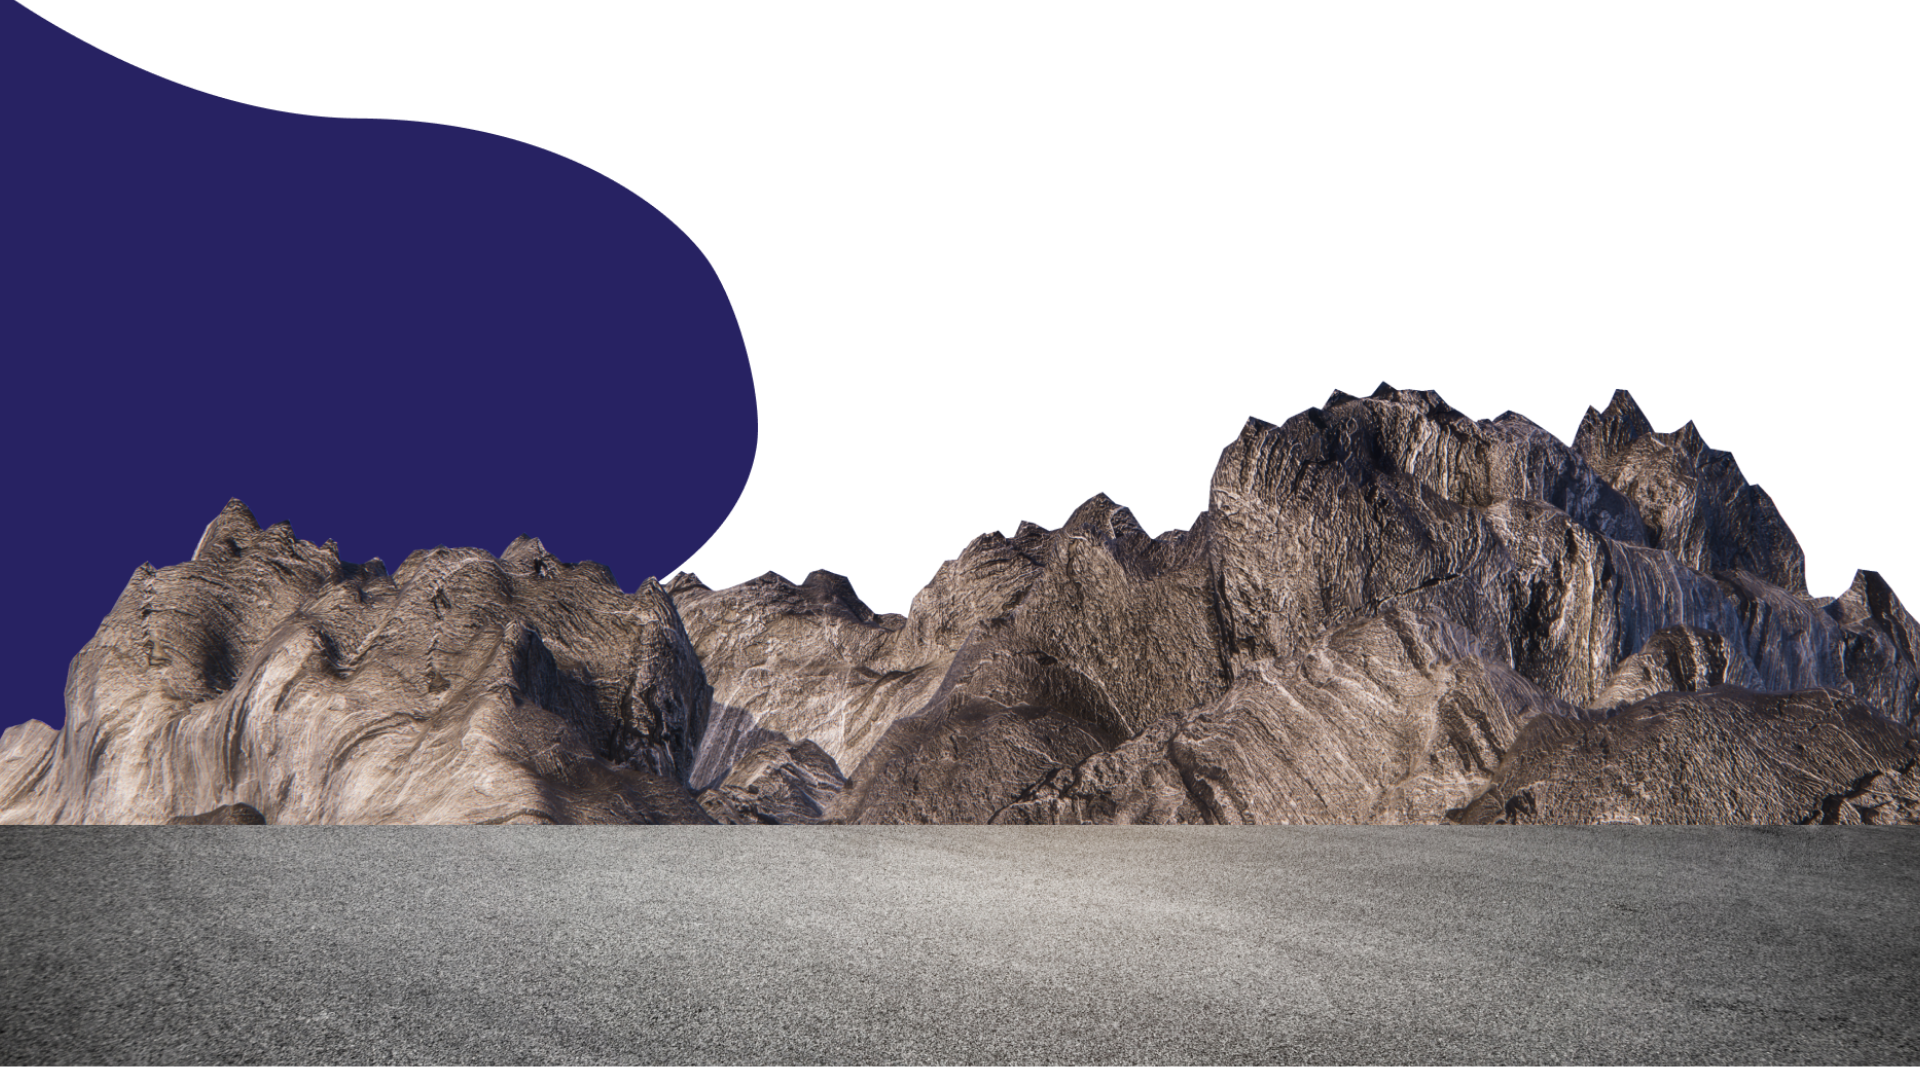
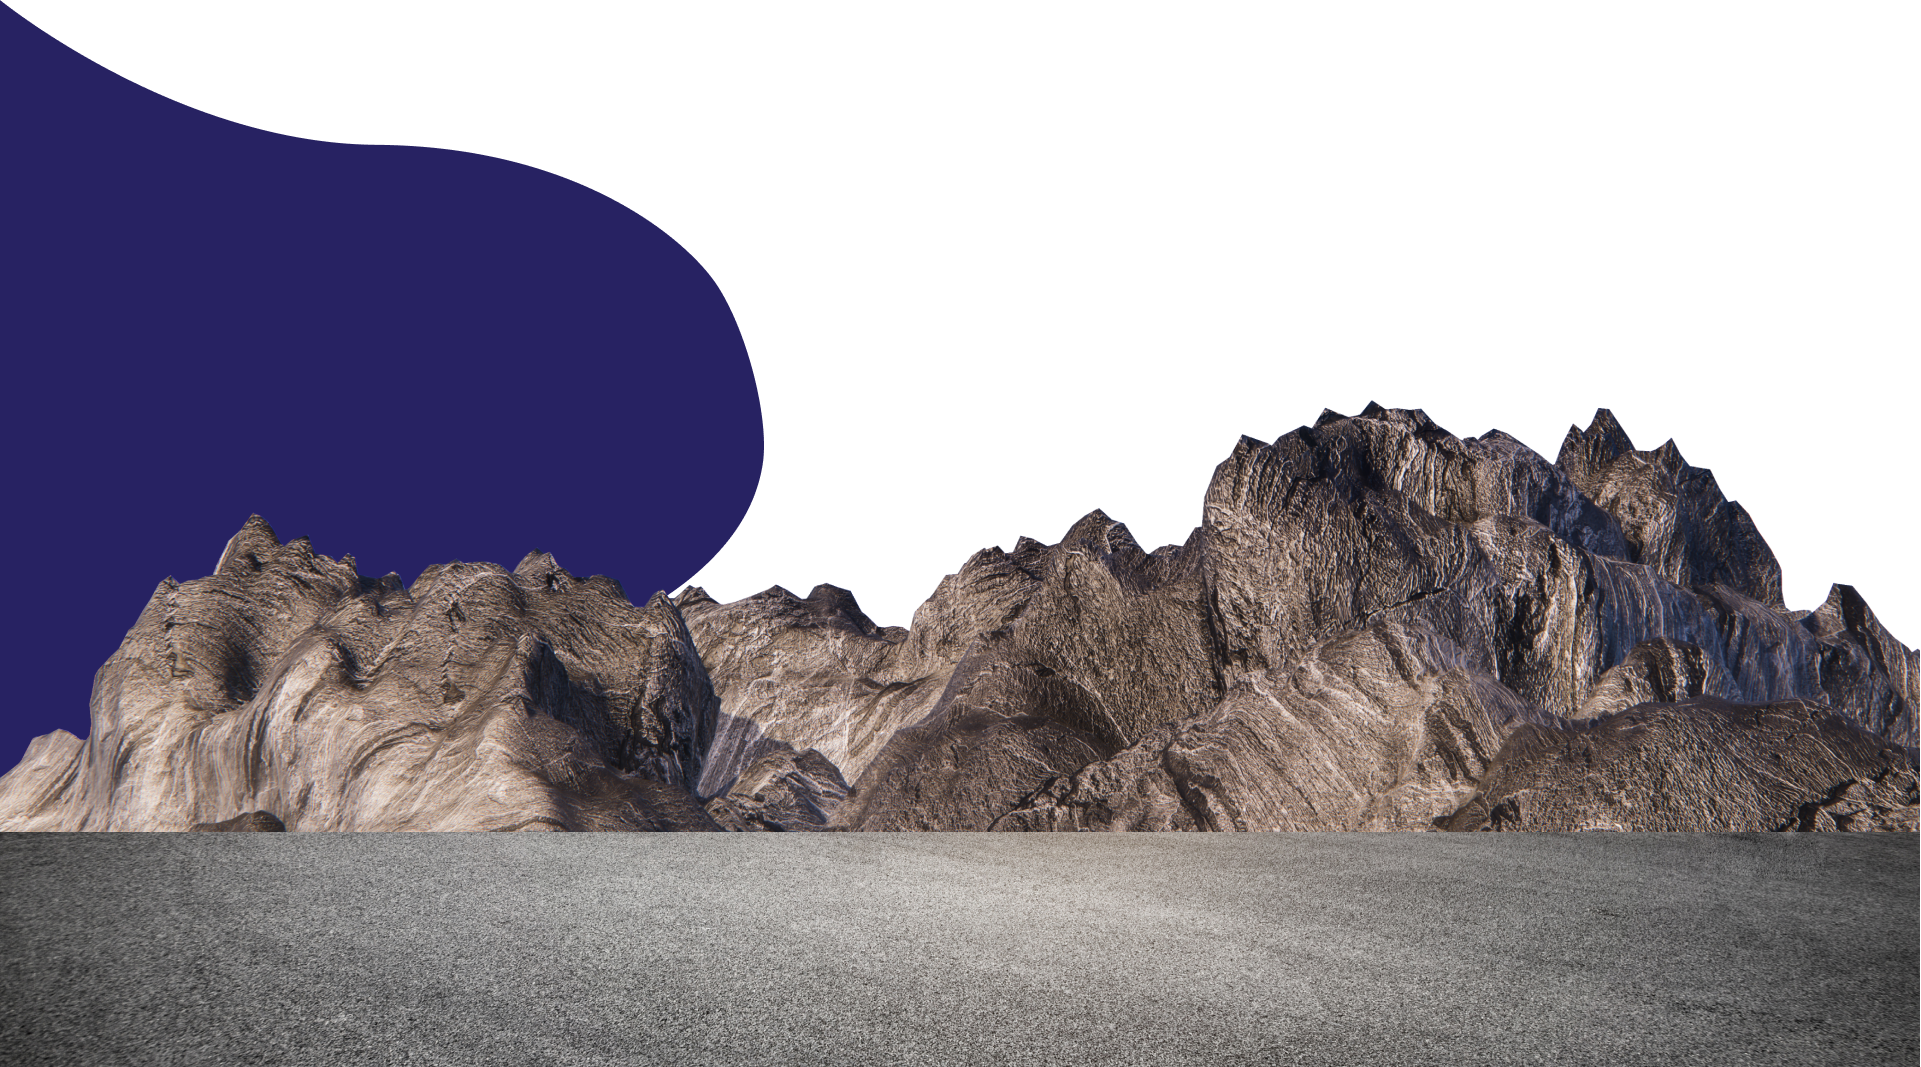
gooo

diff --git a/assets/css/app.css b/assets/css/app.css
@@ -1964,7 +1964,7 @@ nav .navbar-toggler:focus {
 }
 
 .banner {
-  background: url(../media/bg/Hero.png);
+  background: url(../media/bg/Hero\ 2.png);
   background-repeat: no-repeat;
   background-position: left bottom;
   padding: 140px 0 100px 0;
